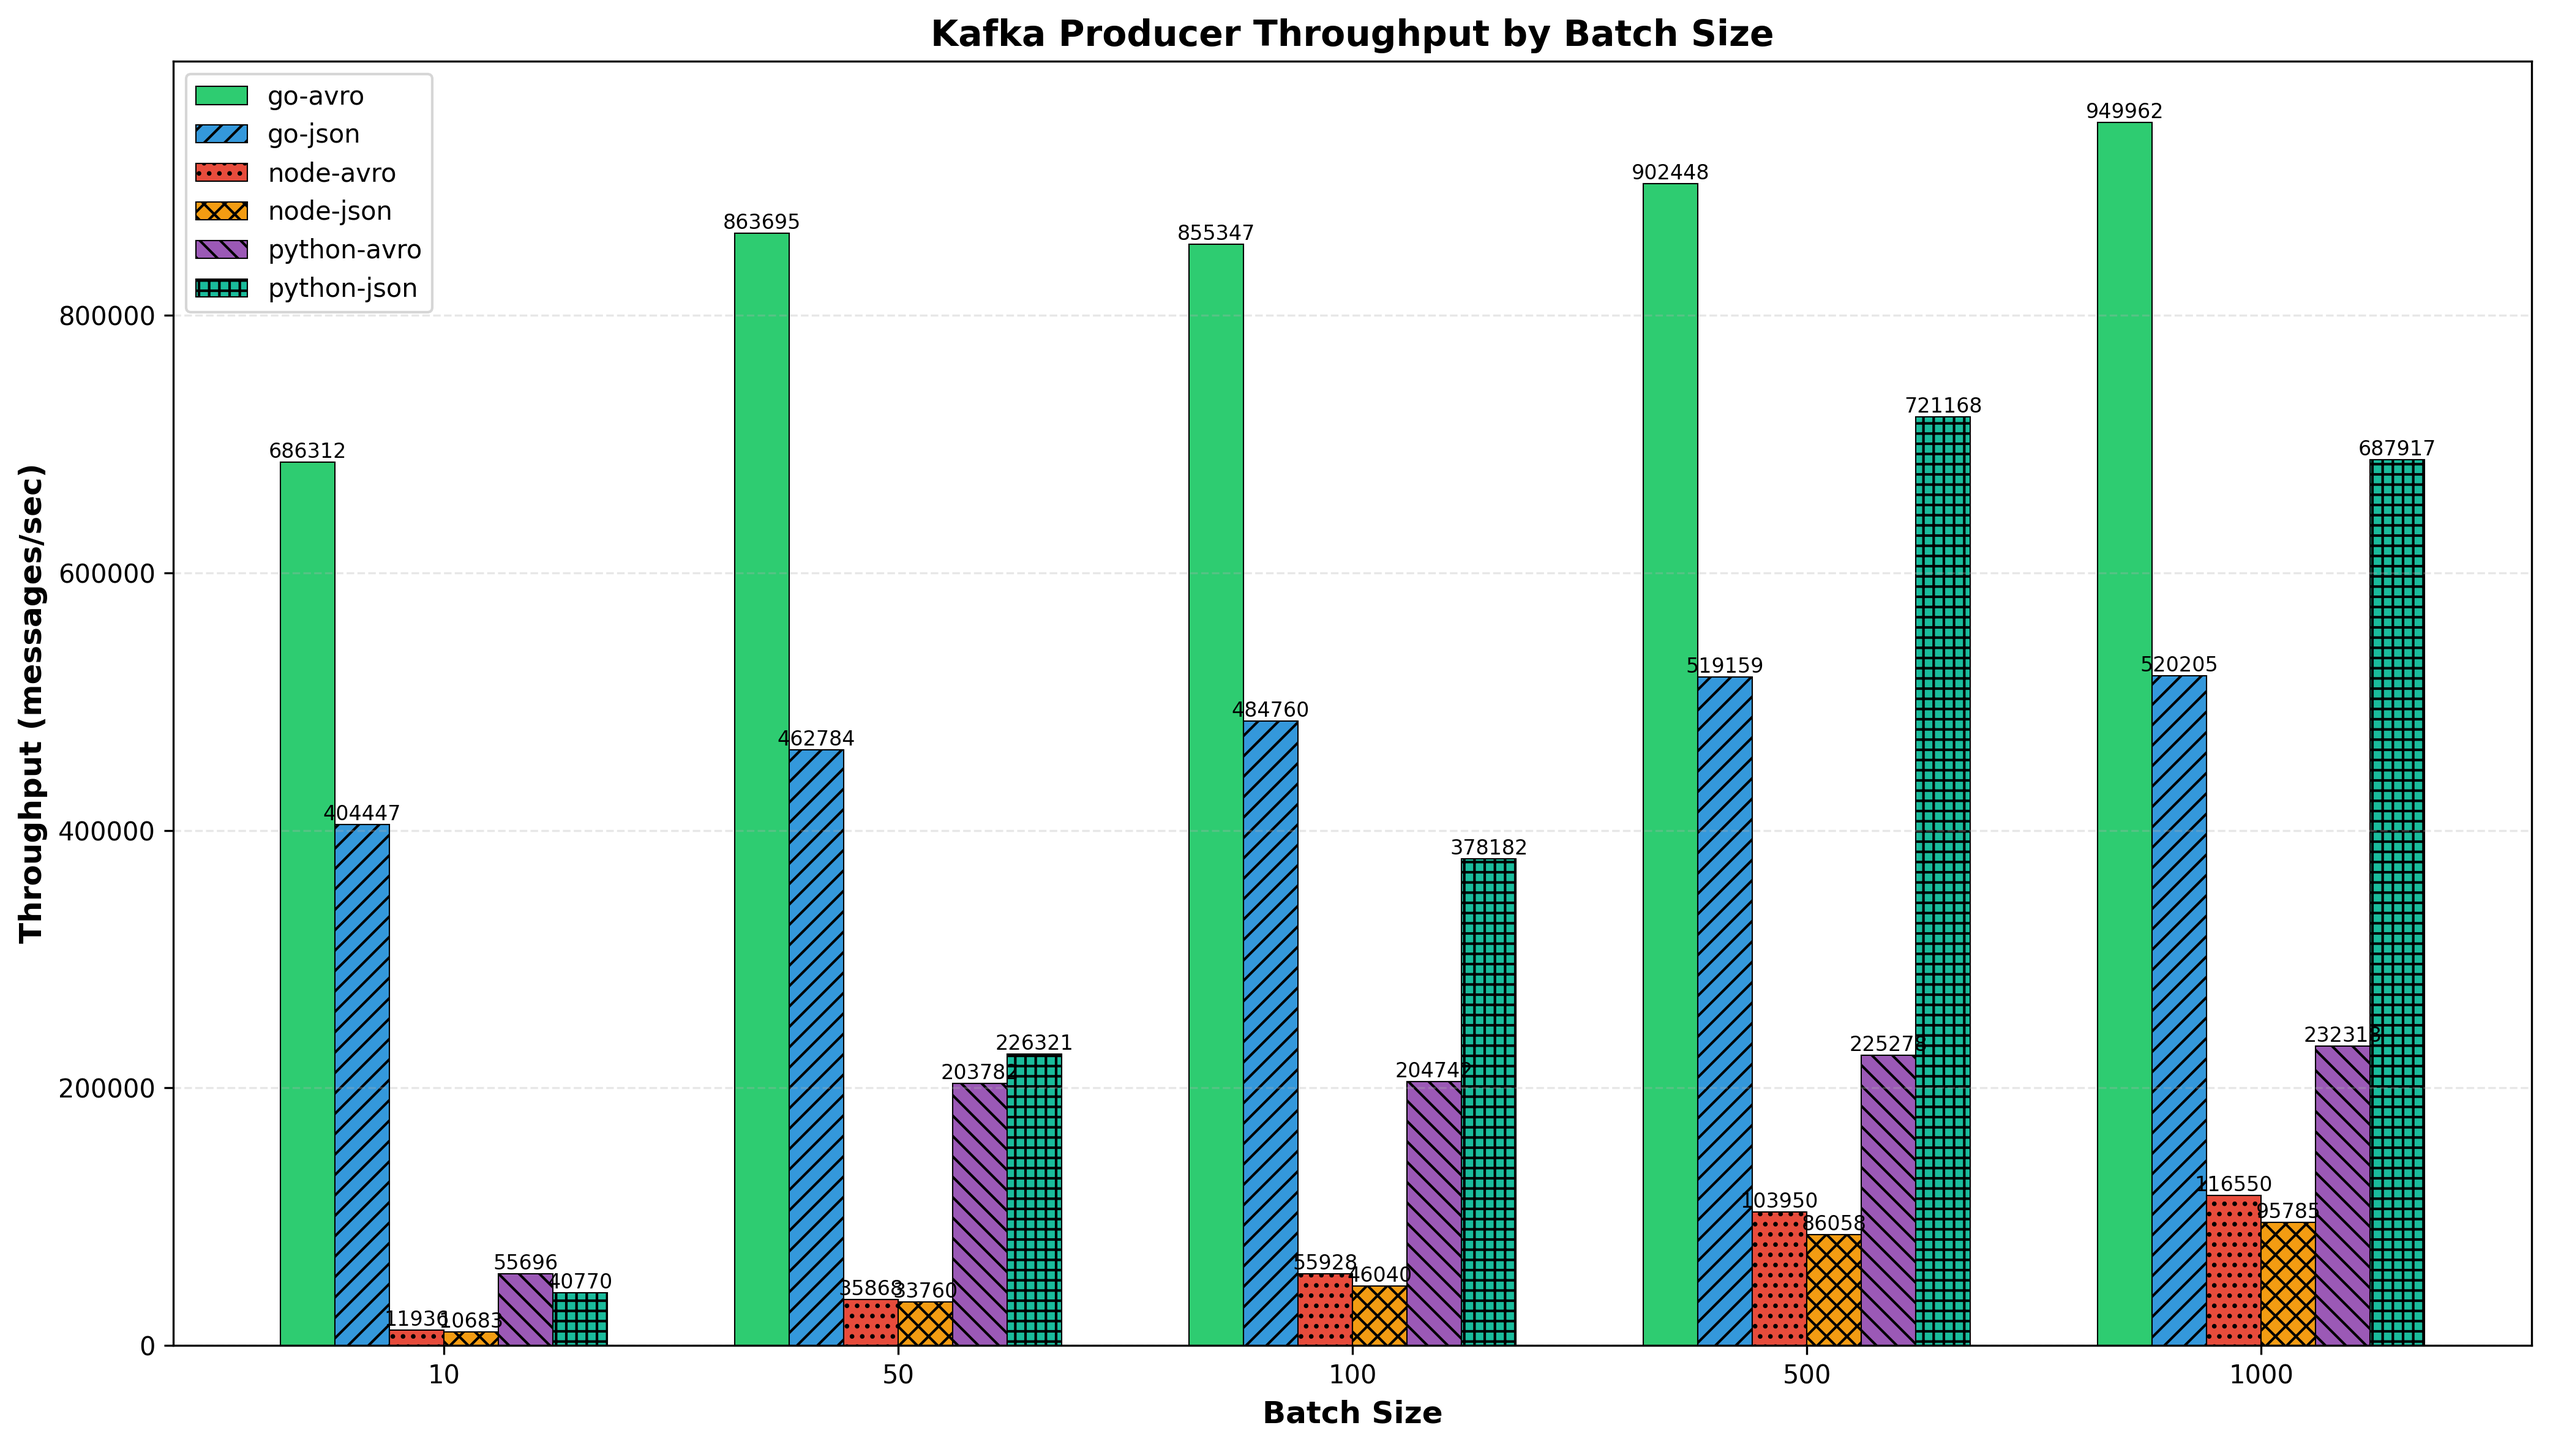
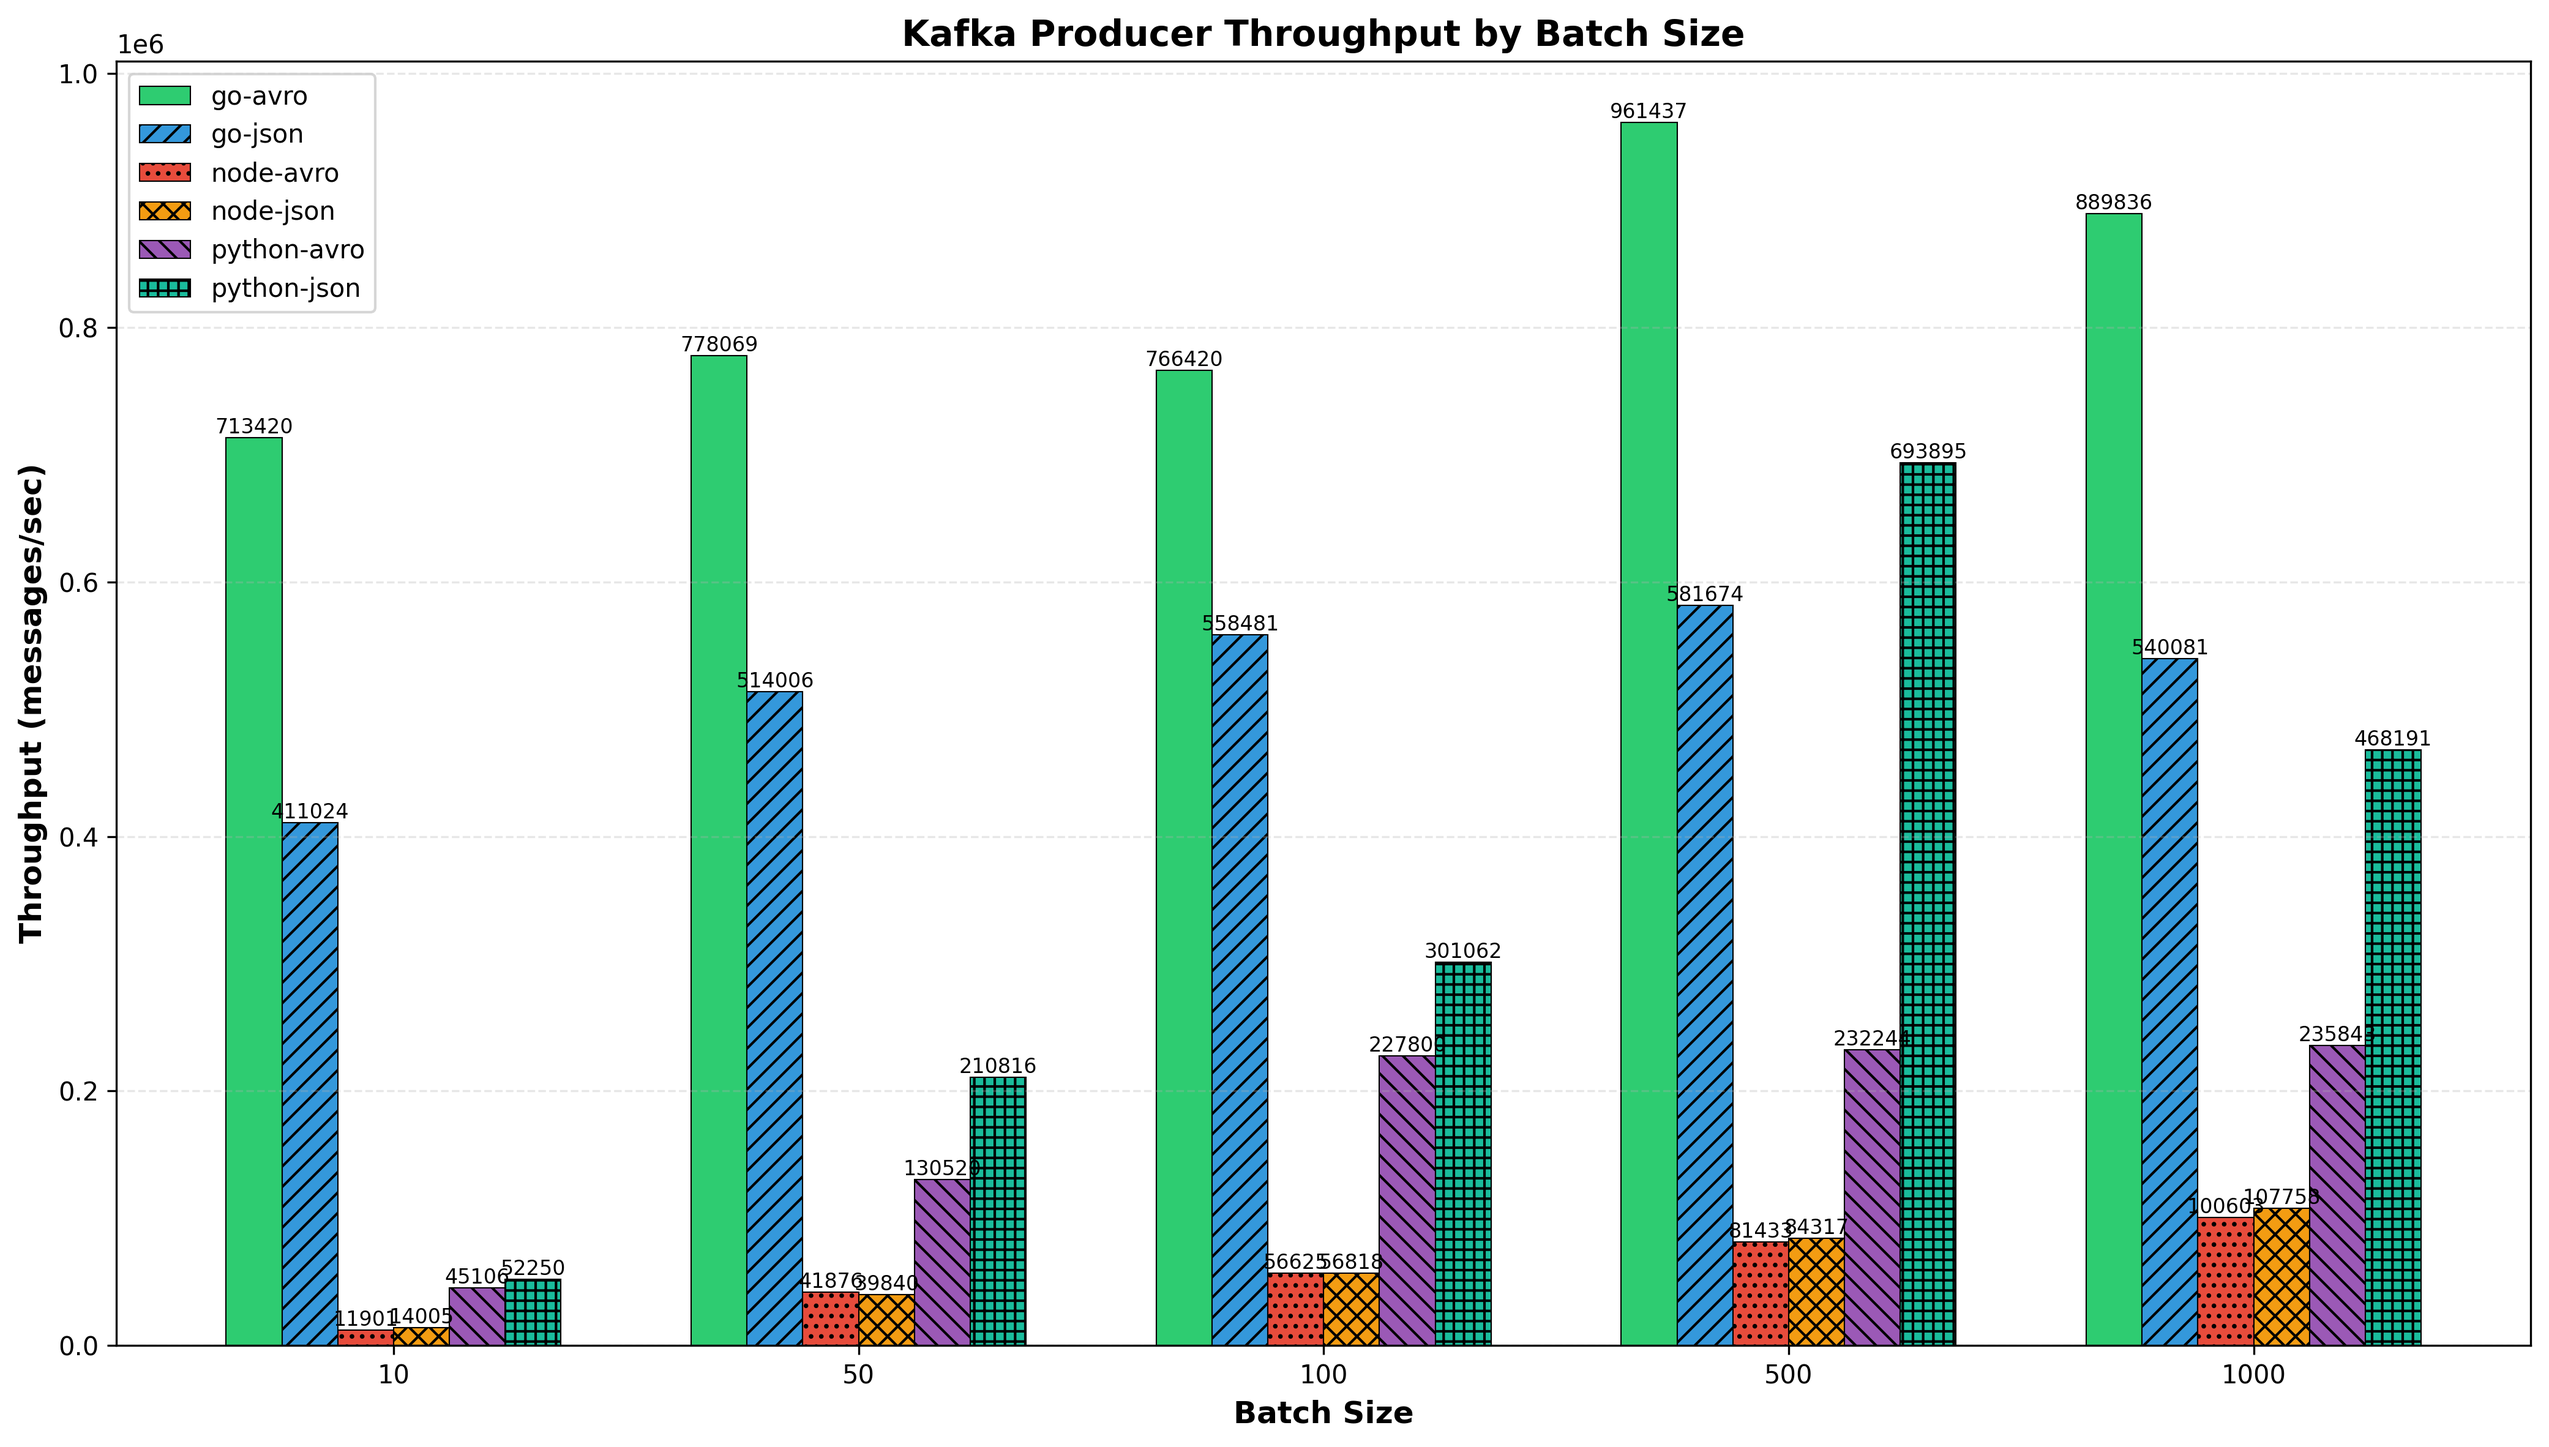
Optimize

diff --git a/python/bench.py b/python/bench.py
@@ -136,7 +136,8 @@ def main():
         produced_count += 1
         
         # Poll producer to handle delivery callbacks
-        producer.poll(0)
+        if produced_count % args.batch == 0:
+            producer.poll(0)
 
     # Flush all remaining messages
     producer.flush()

diff --git a/go/bench.go b/go/bench.go
@@ -2,7 +2,6 @@ package main
 
 import (
 	"context"
-	"encoding/json"
 	"errors"
 	"flag"
 	"fmt"
@@ -12,6 +11,8 @@ import (
 	"strings"
 	"sync/atomic"
 	"time"
+
+	"github.com/goccy/go-json"
 
 	goavro "github.com/linkedin/goavro/v2"
 	"github.com/segmentio/kafka-go"
